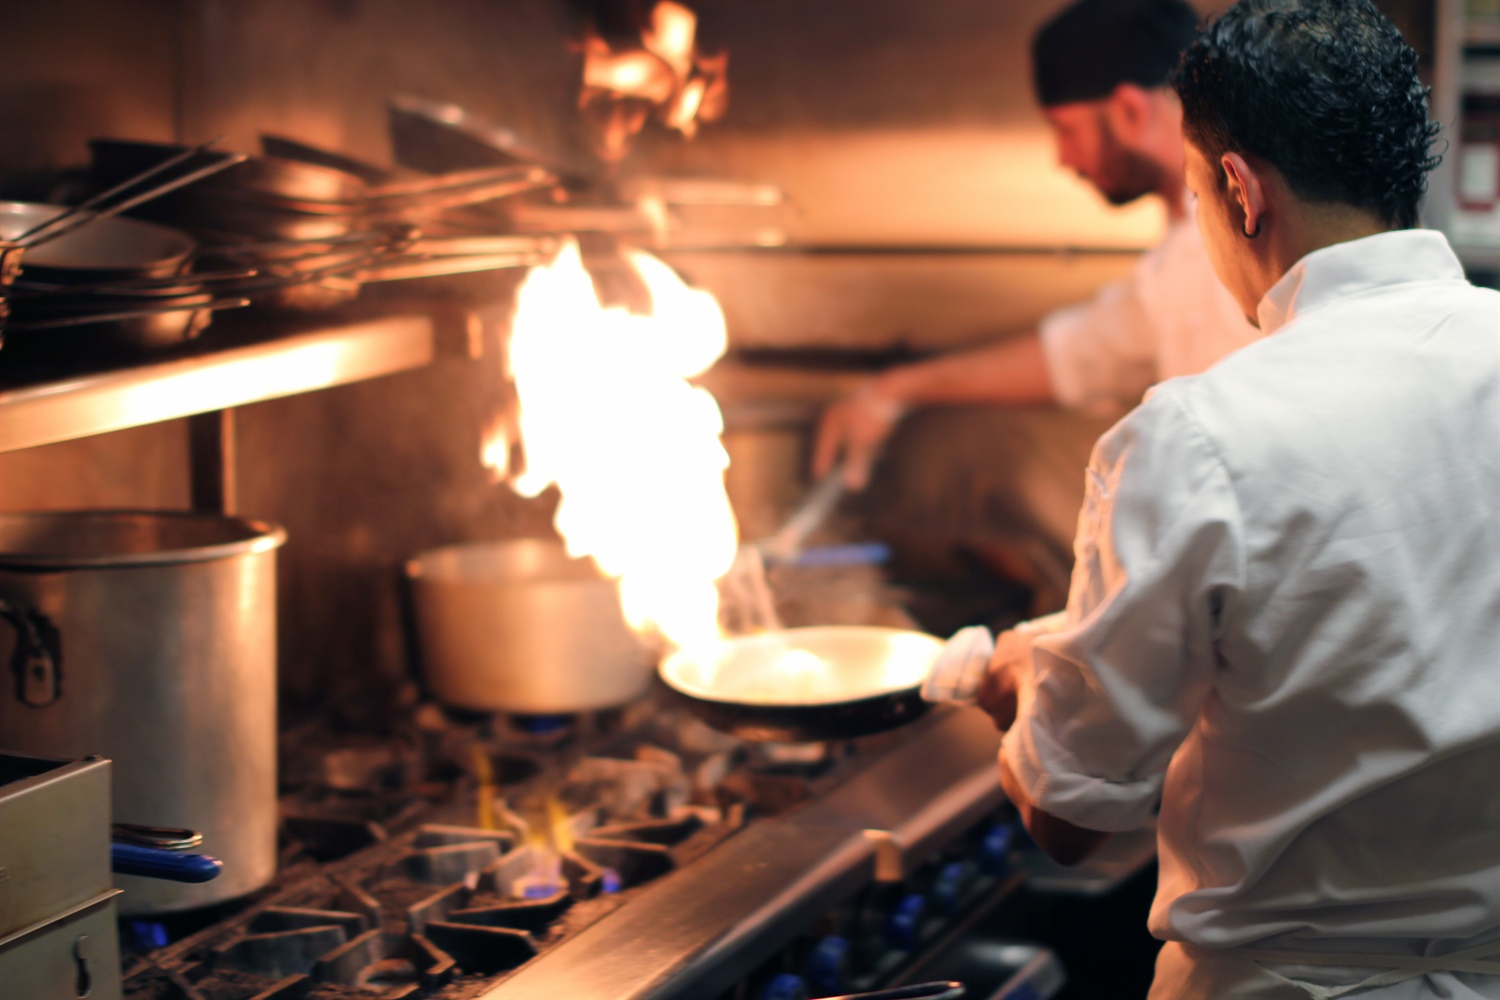
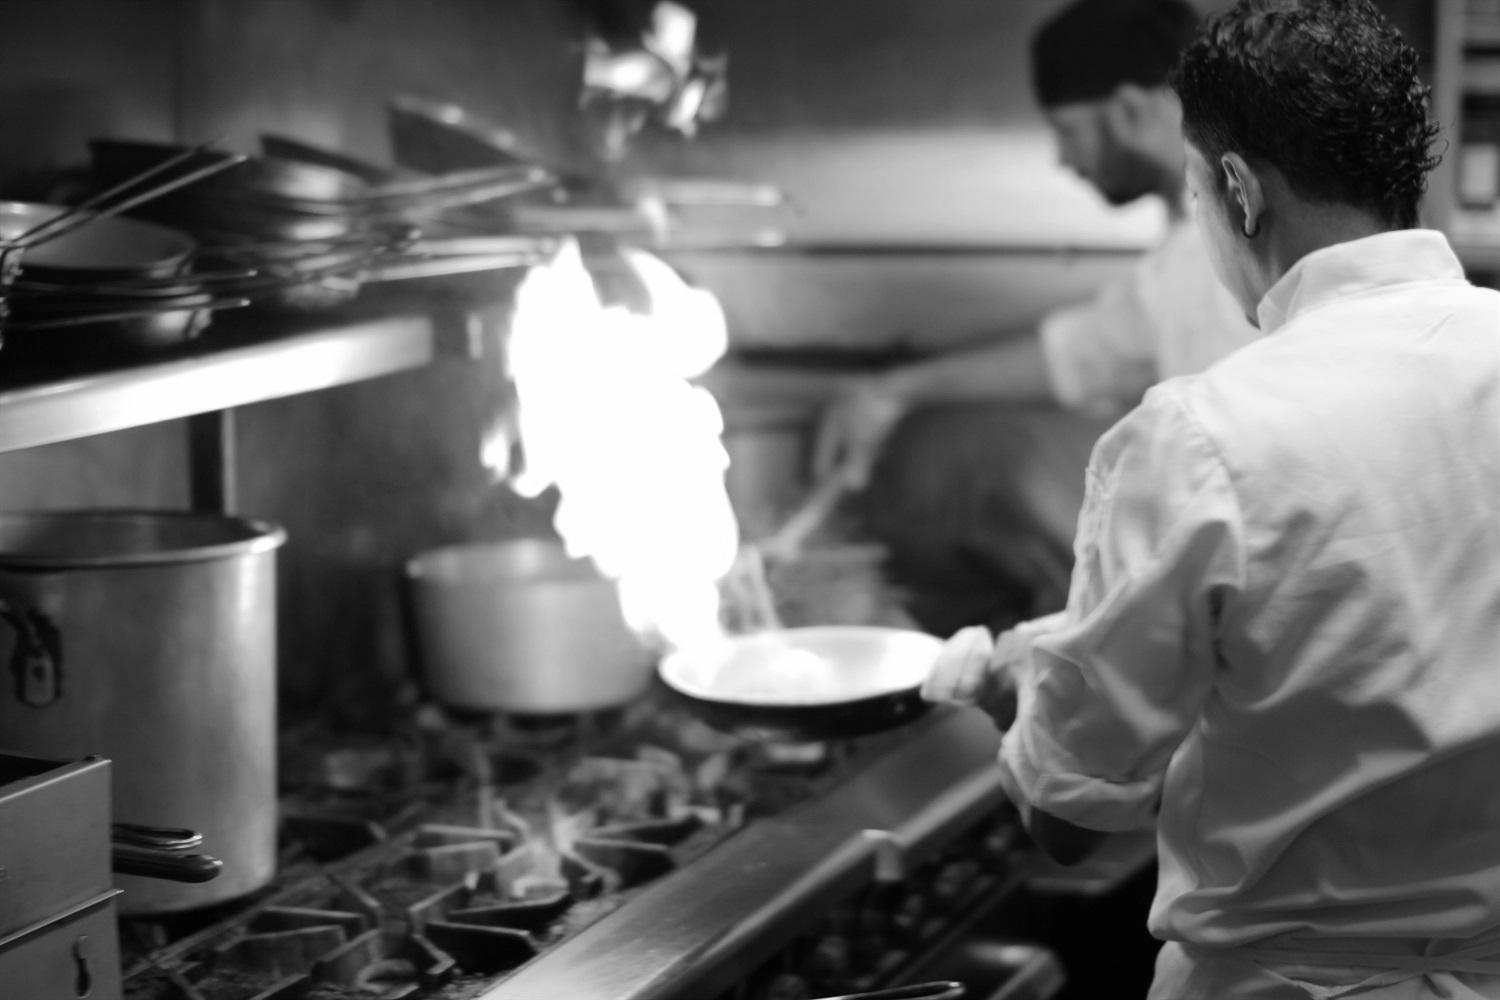
Updated pictures to black and white
Also added some trial OOP assignments

diff --git a/contact/overview.php b/contact/overview.php
@@ -1,0 +1,43 @@
+<?php
+
+class Overview
+{
+    public $form;
+    public $titleproduct1;
+    public $priceproduct1;
+
+    public function __construct()
+    {
+        
+    }
+
+
+
+
+
+
+
+
+
+
+    public $form = '<p class="center"><img src="./images/xrp.jpg"> </p><br> ';
+    public $titleproduct1 = '<h1><center>THIS IS XRP NIFFOO </h1>';
+    public $priceproduct1 = '<h1><center>$2589</h1>';
+    
+}
+?>
+
+<!DOCTYPE html>
+<html lang="en">
+<head>
+    <meta charset="UTF-8">
+    <meta http-equiv="X-UA-Compatible" content="IE=edge">
+    <meta name="viewport" content="width="
+    <style> <p>tekst</p></style>
+    , initial-scale=1.0">
+    <title>Document</title>
+</head>
+<body>
+    
+</body>
+</html>

diff --git a/contact/index.php b/contact/index.php
@@ -1,0 +1,11 @@
+<?php               
+
+
+include ('overview.php');
+
+
+$product = new Overview();
+
+echo $product->form;
+echo $product->titleproduct1;
+echo $product->priceproduct1;
